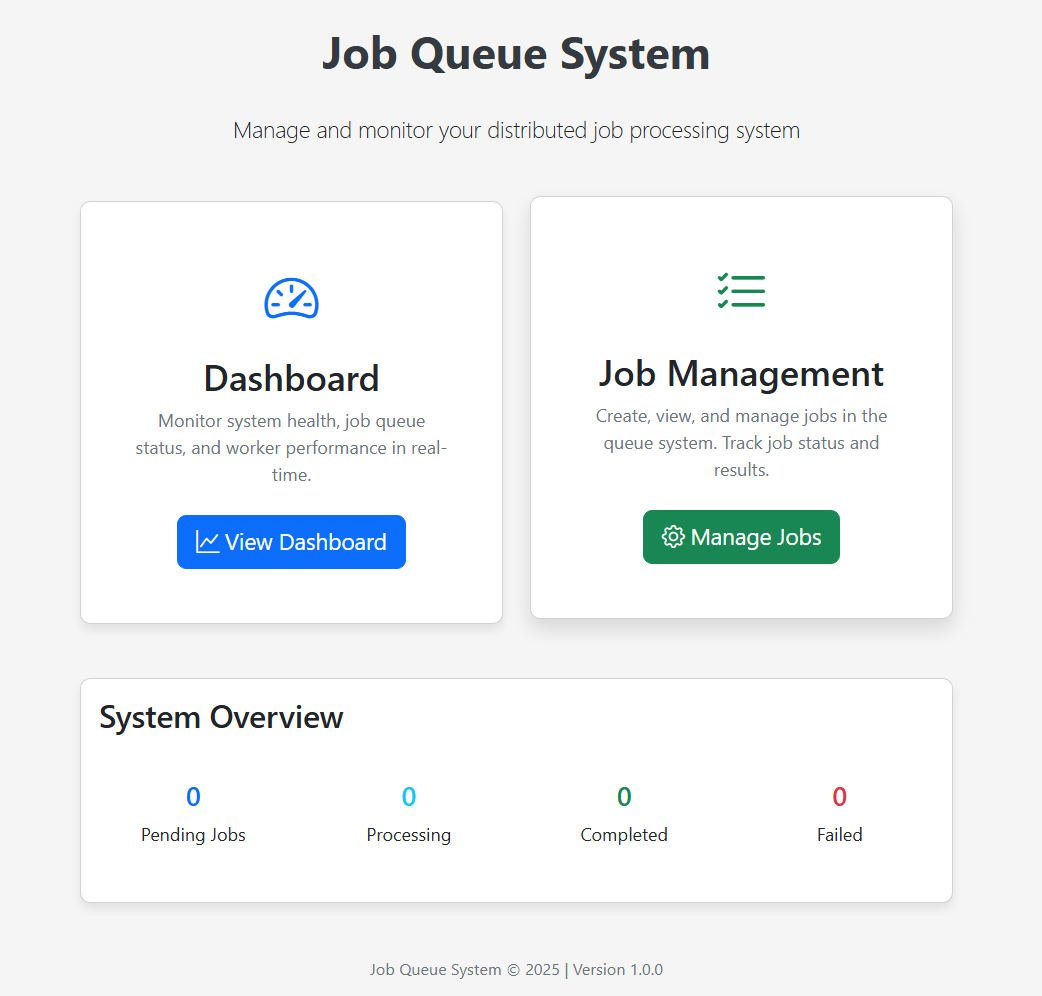
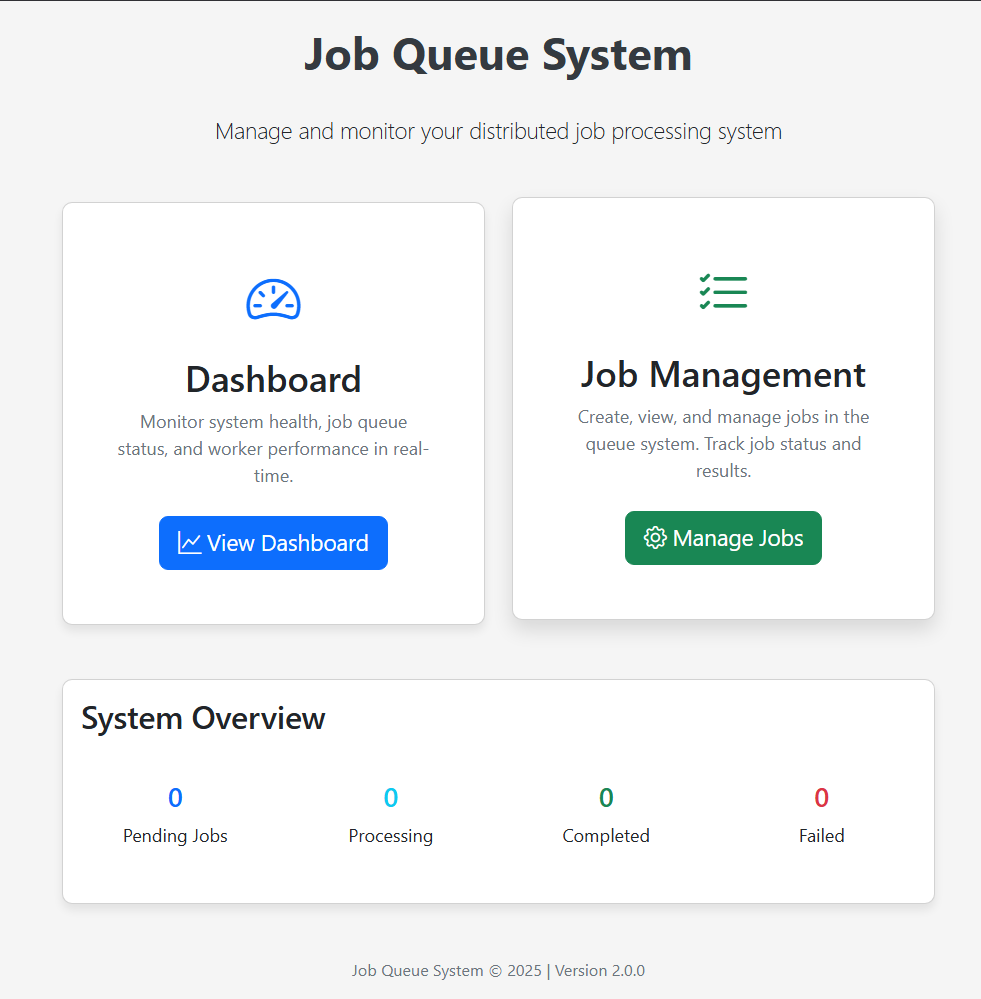
Modified readme instruction.

diff --git a/app/templates/home.html b/app/templates/home.html
@@ -132,7 +132,7 @@
         </div>
 
         <footer class="footer text-center mt-5">
-            <p>Job Queue System &copy; {{ current_year }} | Version 1.0.0</p>
+            <p>Job Queue System &copy; {{ current_year }} | Version 2.0</p>
         </footer>
     </div>
 

diff --git a/README.md b/README.md
@@ -11,6 +11,7 @@ A distributed job queue system built with FastAPI, Redis, and Docker. This syste
 - **Fault Tolerance**: Automatic retry mechanism and dead-letter queue for failed jobs
 - **Dependency Management**: Define job dependencies to ensure proper execution order
 
+
 ## Architecture
 
 The system consists of four main components:
@@ -48,8 +49,12 @@ The system consists of four main components:
    ```
 
 4. **Access the application**:
+   - Home: http://localhost:8000/
+    <!-- ![Home Page](image-home.png) -->
    - Dashboard: http://localhost:8000/dashboard/
+    <!-- ![Metrics Dashboard](image-dashboard.png) -->
    - Job Management: http://localhost:8000/jobs/manage
+    <!-- ![Job Creation Interface](image-job-create.png) -->
    - API Documentation: http://localhost:8000/docs
 
 ### Production Setup with Docker Swarm
